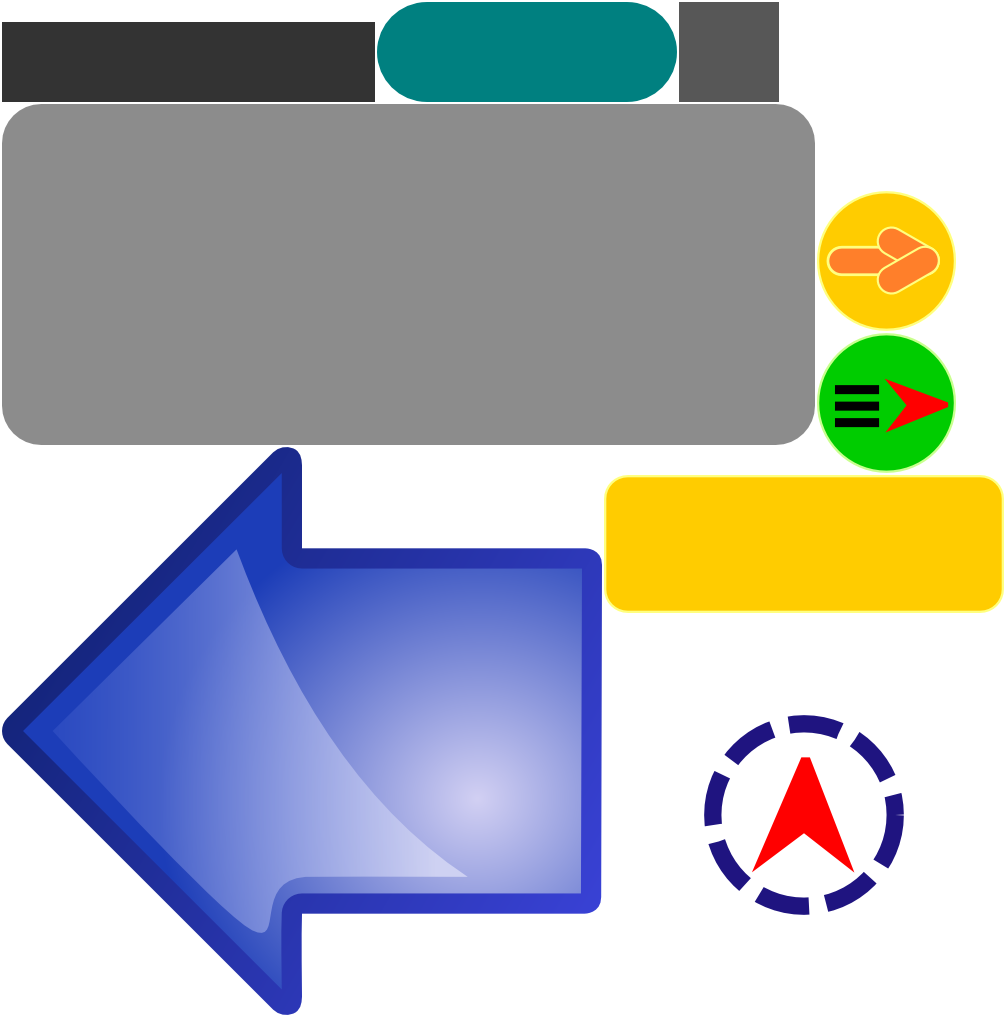
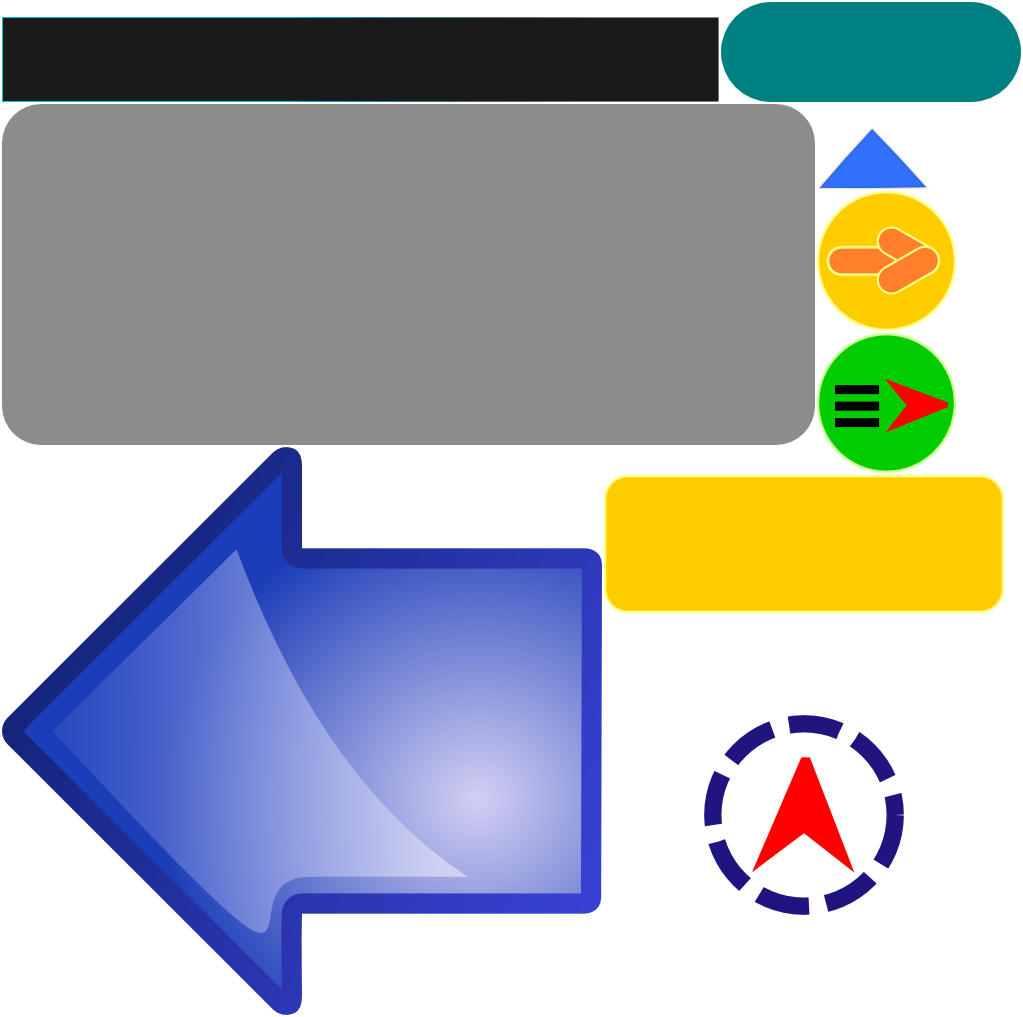
New xp bar for the main screen. #172

diff --git a/GalCon-Server/modules/model/rank.js b/GalCon-Server/modules/model/rank.js
@@ -40,7 +40,7 @@ exports.findRankByName = function(rankName){
 }
 
 exports.findAllRanks = function(){
-	return RankModel.find().exec();
+	return RankModel.find().sort({level : 1}).exec();
 }
 
 exports.findRankForAnXp = function(ranks, xp){

diff --git a/GalCon-Client/GalCon-Client/src/com/xxx/galcon/screen/widget/XpProgressBar.java b/GalCon-Client/GalCon-Client/src/com/xxx/galcon/screen/widget/XpProgressBar.java
@@ -1,0 +1,107 @@
+package com.xxx.galcon.screen.widget;
+
+import com.badlogic.gdx.scenes.scene2d.Group;
+import com.badlogic.gdx.scenes.scene2d.ui.Image;
+import com.xxx.galcon.Constants;
+import com.xxx.galcon.GameLoop;
+import com.xxx.galcon.config.ConfigResolver;
+import com.xxx.galcon.model.Rank;
+import com.xxx.galcon.screen.Resources;
+
+public class XpProgressBar extends Group {
+
+	private Resources resources;
+	private float height;
+	private float width;
+	
+	private Image mainXp;
+	private Image coverXp;
+	
+	private Rank usersCurrentRank;
+	private Rank nextRank;
+
+	
+	public XpProgressBar(Resources resources, float height, float width){
+		this.resources = resources;
+		this.height = height;
+		this.width = width;
+		usersCurrentRank = ConfigResolver.getRankForXp(GameLoop.USER.xp);
+		nextRank = ConfigResolver.getNextRank(GameLoop.USER.xp);
+		
+		
+		createMainImage();
+		createCoverImage();
+		createXpNeededText();
+		createNextLevelCount();
+		createXpArrow();
+		createUserWelcome();
+	}
+
+
+
+
+	private void createMainImage() {
+		mainXp = new Image(resources.skin, Constants.UI.XP_BAR_MAIN);
+		mainXp.setWidth(width * 0.8f);
+		mainXp.setHeight(height);
+		mainXp.setX(getX() + (width * 0.1f));
+		mainXp.setY(getY());
+		
+		addActor(mainXp);
+	}
+	
+	private void createCoverImage() {
+		coverXp = new Image(resources.skin, Constants.UI.XP_BAR_COVER);
+		
+		
+		float total = nextRank.startFrom - usersCurrentRank.startFrom;
+		float userInRange = GameLoop.USER.xp - usersCurrentRank.startFrom;
+		float percentage  = userInRange / total;
+		float percentageNotEarned = 100 - (percentage * 100);
+		
+		coverXp.setWidth((mainXp.getWidth() * percentageNotEarned) / 100f);
+		
+		coverXp.setHeight(height);
+		coverXp.setX(mainXp.getX() + (mainXp.getWidth() - coverXp.getWidth()));
+		coverXp.setY(getY());
+		
+		addActor(coverXp);
+	}
+	
+	private void createXpNeededText() {
+		int xpNeeded = nextRank.startFrom - GameLoop.USER.xp;
+		ShaderLabel xpNeededLabel = new ShaderLabel(resources.fontShader, xpNeeded + "xp", resources.skin, Constants.UI.DEFAULT_FONT_YELLOW);
+		xpNeededLabel.setX(mainXp.getX() + 10);
+		addActor(xpNeededLabel);
+		
+		ShaderLabel neededText = new ShaderLabel(resources.fontShader, "Needed", resources.skin, Constants.UI.DEFAULT_FONT);
+		neededText.setX(xpNeededLabel.getX() + (xpNeededLabel.getTextBounds().width * 1.05f));
+		addActor(neededText);
+	}
+	
+	private void createNextLevelCount() {
+		ShaderLabel nextLevel = new ShaderLabel(resources.fontShader, "" + nextRank.level, resources.skin, Constants.UI.DEFAULT_FONT);
+		nextLevel.setX(mainXp.getX() + mainXp.getWidth());
+		addActor(nextLevel);
+		
+	}
+	
+	private void createXpArrow() {
+		Image arrow = new Image(resources.skin, Constants.UI.XP_BAR_ARROW);
+		arrow.setWidth(width * 0.03f);
+		arrow.setHeight(height * 0.3f);
+		arrow.setX(coverXp.getX() - (arrow.getWidth() * 0.5f));
+		arrow.setY(getY() - arrow.getHeight());
+		
+		addActor(arrow);
+	}
+	
+	private void createUserWelcome() {
+		String welcome = GameLoop.USER.handle + "[" + usersCurrentRank.level + "]";
+		ShaderLabel userWelcome = new ShaderLabel(resources.fontShader, welcome, resources.skin, Constants.UI.DEFAULT_FONT);
+		userWelcome.setX(mainXp.getX() + 2);
+		userWelcome.setY(mainXp.getHeight());
+		addActor(userWelcome);
+		
+	}
+}

diff --git a/GalCon-Client/GalCon-Client/src/com/xxx/galcon/UISkin.java b/GalCon-Client/GalCon-Client/src/com/xxx/galcon/UISkin.java
@@ -34,6 +34,7 @@ public class UISkin extends Skin {
 		add(Constants.UI.DEFAULT_FONT_BLACK, new LabelStyle(Fonts.getInstance(assetManager).mediumFont(), Color.BLACK));
 		add(Constants.UI.DEFAULT_FONT_GREEN, new LabelStyle(Fonts.getInstance(assetManager).mediumFont(), Color.GREEN));
 		add(Constants.UI.DEFAULT_FONT_RED, new LabelStyle(Fonts.getInstance(assetManager).mediumFont(), Color.RED));
+		add(Constants.UI.DEFAULT_FONT_YELLOW, new LabelStyle(Fonts.getInstance(assetManager).mediumFont(), Color.YELLOW));
 		add(Constants.UI.X_SMALL_FONT, new LabelStyle(Fonts.getInstance(assetManager).xSmallFont(), Color.WHITE));
 		add(Constants.UI.SMALL_FONT, new LabelStyle(Fonts.getInstance(assetManager).smallFont(), Color.WHITE));
 		add(Constants.UI.X_SMALL_FONT_GREEN, new LabelStyle(Fonts.getInstance(assetManager).xSmallFont(), new Color(
@@ -122,6 +123,18 @@ public class UISkin extends Skin {
 			TextureRegionDrawable trd = new TextureRegionDrawable(menusAtlas.findRegion("highlight_bar"));
 			add(Constants.UI.HIGHLIGHT_BAR, trd, Drawable.class);
 		}
+		{
+			TextureRegionDrawable trd = new TextureRegionDrawable(menusAtlas.findRegion("xp_bar_cover"));
+			add(Constants.UI.XP_BAR_COVER, trd, Drawable.class);
+		}
+		{
+			TextureRegionDrawable trd = new TextureRegionDrawable(menusAtlas.findRegion("xp_bar_main"));
+			add(Constants.UI.XP_BAR_MAIN, trd, Drawable.class);
+		}
+		{
+			TextureRegionDrawable trd = new TextureRegionDrawable(menusAtlas.findRegion("xp_bar_arrow"));
+			add(Constants.UI.XP_BAR_ARROW, trd, Drawable.class);
+		}
 
 		/*
 		 * Image Buttons
@@ -180,6 +193,7 @@ public class UISkin extends Skin {
 			TextureRegionDrawable trd = new TextureRegionDrawable(levelSelectionAtlas.findRegion("scroll_highlight"));
 			add(Constants.UI.SCROLL_HIGHLIGHT, trd, Drawable.class);
 		}
+		
 
 		TextureRegionDrawable trd = new TextureRegionDrawable(levelSelectionAtlas.findRegion("reg_play"));
 		add("regularPlay", new ImageButtonStyle(trd, trd, trd, trd, trd, trd));

diff --git a/GalCon-Client/GalCon-Client/src/com/xxx/galcon/screen/signin/MainMenuScreen.java b/GalCon-Client/GalCon-Client/src/com/xxx/galcon/screen/signin/MainMenuScreen.java
@@ -36,6 +36,7 @@ import com.xxx.galcon.screen.widget.ActorBar;
 import com.xxx.galcon.screen.widget.CountLabel;
 import com.xxx.galcon.screen.widget.ShaderLabel;
 import com.xxx.galcon.screen.widget.WaitImageButton;
+import com.xxx.galcon.screen.widget.XpProgressBar;
 
 public class MainMenuScreen implements PartialScreenFeedback {
 	private String returnValue;
@@ -52,6 +53,7 @@ public class MainMenuScreen implements PartialScreenFeedback {
 	private ShaderLabel inviteLabel;
 	private ShaderLabel coinText;
 	protected WaitImageButton waitImage;
+	private XpProgressBar xpBar;
 	private ImageButton fbButton;
 	private ImageButton gpButton;
 
@@ -158,6 +160,14 @@ public class MainMenuScreen implements PartialScreenFeedback {
 
 		addContinueCount(gameCount);
 		addInviteCount(gameCount);
+		addProgressBar();
+	}
+
+	private void addProgressBar() {
+		xpBar = new XpProgressBar(resources, Gdx.graphics.getHeight() * 0.05f, Gdx.graphics.getWidth());
+		xpBar.setY(Gdx.graphics.getHeight() * 0.05f);
+		stage.addActor(xpBar);
+		actors.add(xpBar);
 	}
 
 	private void addSocialButtonBar() {

diff --git a/GalCon-Client/GalCon-Client/src/com/xxx/galcon/Constants.java b/GalCon-Client/GalCon-Client/src/com/xxx/galcon/Constants.java
@@ -24,6 +24,7 @@ public class Constants {
 		public static final String DEFAULT_FONT_BLACK = "defaultFontBlack";
 		public static final String DEFAULT_FONT_GREEN = "defaultFontGreen";
 		public static final String DEFAULT_FONT_RED = "defaultFontRed";
+		public static final String DEFAULT_FONT_YELLOW = "defaultFontYellow";
 		public static final String LARGE_FONT = "largeFont";
 		public static final String X_LARGE_FONT = "xLargeFont";
 		public static final String LARGE_FONT_BLACK = "largeFontBlack";
@@ -59,6 +60,11 @@ public class Constants {
 
 		public static final String HIGHLIGHT_BAR = "highlightBar";
 		public static final String BACK_ARROW_WHITE = "backArrowWhite";
+
+		public static final String XP_BAR_COVER = "xpBarCover";
+		public static final String XP_BAR_MAIN = "xpBarMain";
+		public static final String XP_BAR_ARROW = "xpBarArrow";
+
 	}
 
 	public static class Colors {

diff --git a/GalCon-Client/GalCon-Client/src/com/xxx/galcon/config/Configuration.java b/GalCon-Client/GalCon-Client/src/com/xxx/galcon/config/Configuration.java
@@ -62,10 +62,29 @@ public class Configuration extends JsonConvertible {
 	
 	protected Rank getRankForXp(Integer xp){
 		for(Rank rank : ranks){
-			if(rank.startFrom <= xp && rank.endAt > xp){
+			if(isCurrentRank(xp, rank)){
 				return rank;
 			}
 		}
+		return null;
+	}
+
+	private boolean isCurrentRank(Integer xp, Rank rank) {
+		return rank.startFrom <= xp && rank.endAt > xp;
+	}
+	
+	protected Rank getNextRank(Integer xp){
+		for(int i = 0; i < ranks.size(); i++){
+			Rank rank = ranks.get(i);
+			if(isCurrentRank(xp, rank)){
+				if(i == (ranks.size() + 1)){
+					return null;
+				}else{
+					return ranks.get(i+1);
+				}
+			}
+		}
+		
 		return null;
 	}
 

diff --git a/GalCon-Client/GalCon-Client/src/com/xxx/galcon/screen/widget/CountLabel.java b/GalCon-Client/GalCon-Client/src/com/xxx/galcon/screen/widget/CountLabel.java
@@ -1,14 +1,8 @@
 package com.xxx.galcon.screen.widget;
 
-import com.badlogic.gdx.assets.AssetManager;
-import com.badlogic.gdx.graphics.g2d.TextureAtlas;
-import com.badlogic.gdx.graphics.g2d.TextureAtlas.AtlasRegion;
 import com.badlogic.gdx.graphics.glutils.ShaderProgram;
 import com.badlogic.gdx.scenes.scene2d.Group;
-import com.badlogic.gdx.scenes.scene2d.ui.Image;
 import com.badlogic.gdx.scenes.scene2d.ui.ImageButton;
-import com.badlogic.gdx.scenes.scene2d.utils.Align;
-import com.badlogic.gdx.scenes.scene2d.utils.TextureRegionDrawable;
 import com.xxx.galcon.Constants;
 import com.xxx.galcon.UISkin;
 import com.xxx.galcon.screen.GraphicsUtils;

diff --git a/GalCon-Client/GalCon-Client/src/com/xxx/galcon/config/ConfigResolver.java b/GalCon-Client/GalCon-Client/src/com/xxx/galcon/config/ConfigResolver.java
@@ -26,5 +26,9 @@ public class ConfigResolver {
 	public static Rank getRankForXp(Integer xp){
 		return GameLoop.CONFIG.getRankForXp(xp);
 	}
+	
+	public static Rank getNextRank(Integer xp){
+		return GameLoop.CONFIG.getNextRank(xp);
+	}
 
 }
